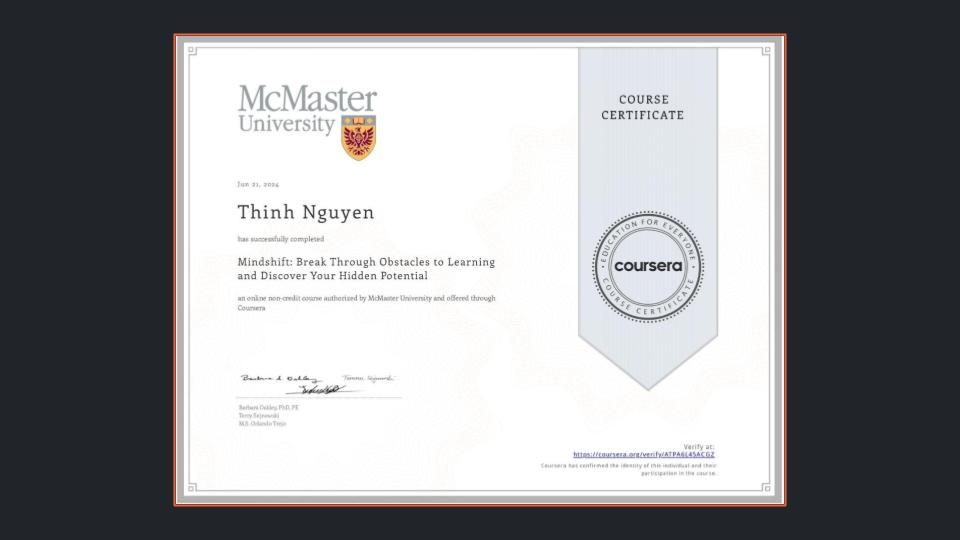
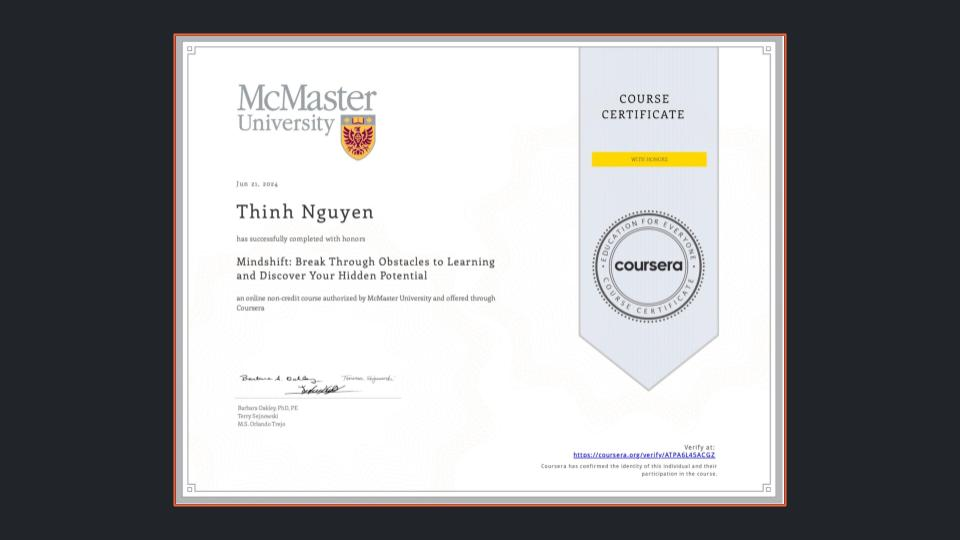
update PFA cert

diff --git a/index.html b/index.html
@@ -159,8 +159,8 @@
                         </a>
                     </div>
                     <div class="col-lg-4 col-sm-6">
-                        <a class="portfolio-box" href="assets/img/certifications/fullsize/0.jpg" title="Psychological First Aid">
-                            <img class="img-fluid" src="assets/img/certifications/fullsize/0.jpg" alt="..." />
+                        <a class="portfolio-box" href="assets/img/certifications/fullsize/2.jpg" title="Psychological First Aid">
+                            <img class="img-fluid" src="assets/img/certifications/fullsize/2.jpg" alt="..." />
                             <div class="portfolio-box-caption">
                                 <div class="project-category text-white-50">Psychology</div>
                                 <div class="project-name">Psychological First Aid</div>
